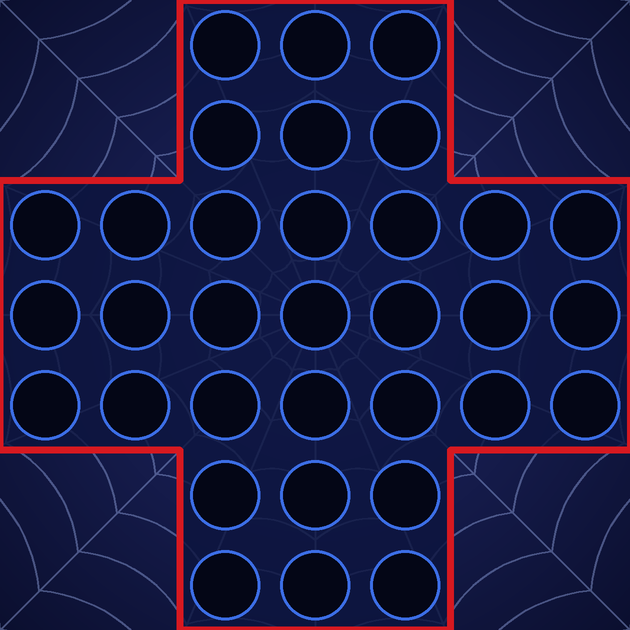
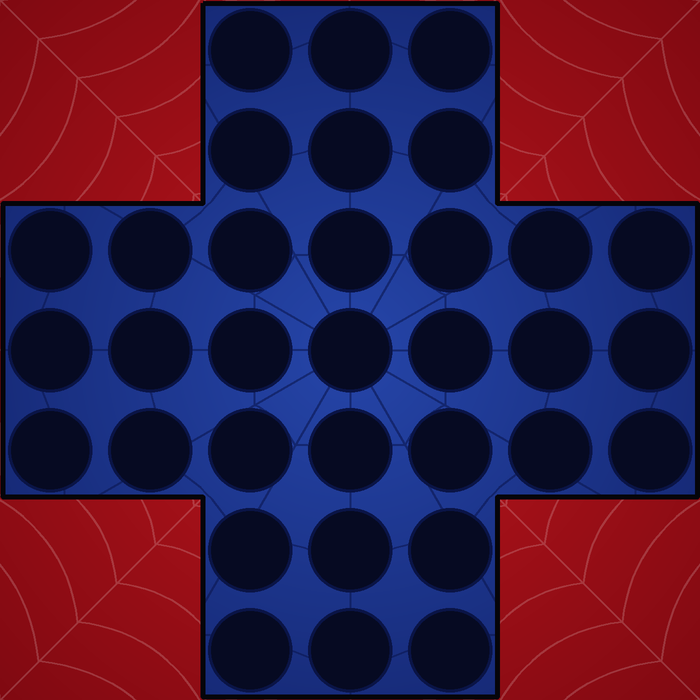
Corregimos css

diff --git a/css/spiderpeg.css b/css/spiderpeg.css
@@ -1,40 +1,61 @@
-.spiderpeg-contenedor {
-    width: 100%;
-    display: flex;
-    justify-content: center;
-    flex: 1;
-    align-items: flex-start;
-    gap: 40px;
-}
+/* ==========================================================================
+   SPIDER-PEG (Peg Solitaire) - Versión Escritorio
+   Paleta del sitio: fondo #0e0e0e, tarjetas #1a1a1a, verde #06D606,
+   rosa #D6006A, texto gris #a3a3a3.
+   ========================================================================== */
 
+/* Ruta de navegación (Inicio / Juegos / ...) */
 .spiderpeg-ruta {
     margin-bottom: 0;
 }
 
-.spiderpeg-juego {
-    max-width: 100%;
-    display: flex;
-    flex-direction: column;
-    align-items: center;
-    gap: 16px;
-}
-
-/* Tablero: ocupa el ancho disponible, hasta 700px, siempre cuadrado */
-#spiderpeg-canvas {
+/* --------------------------------------------------------------------------
+   CONTENEDOR GENERAL: juego a la izquierda y "¿Cómo jugar?" a la derecha.
+   -------------------------------------------------------------------------- */
+.spiderpeg-contenedor {
     width: 100%;
-    max-width: 700px;
-    height: auto;
-}
-
-/* Panel con los datos del juego */
-.spiderpeg-panel {
-    width: 100%;
-    max-width: 700px;
-    display: flex;
-    flex-direction: column;
-    align-items: center;
-    gap: 20px;
+    box-sizing: border-box;
     padding: 20px;
+    display: flex;
+    justify-content: center;
+    align-items: flex-start;
+    gap: 40px;
+}
+
+/* Sección de "¿Cómo jugar?" */
+.spiderpeg-contenedor .how-to-play {
+    width: auto;
+    flex: 1 1 320px;
+    max-width: 460px;
+    margin: 0;
+    box-sizing: border-box;
+}
+
+/* --------------------------------------------------------------------------
+   JUEGO: panel y tablero en fila (escritorio)
+   -------------------------------------------------------------------------- */
+.spiderpeg-juego {
+    display: flex;
+    flex-direction: row;
+    align-items: flex-start;
+    gap: 32px;
+}
+
+/* --------------------------------------------------------------------------
+   PANEL con los datos (tarjeta lateral)
+   -------------------------------------------------------------------------- */
+.spiderpeg-panel {
+    width: 200px;
+    flex: none;
+    box-sizing: border-box;
+    display: flex;
+    flex-direction: column;
+    align-items: center;
+    gap: 24px;
+    padding: 24px;
+    background-color: #1a1a1a;
+    border-radius: 15px;
+    box-shadow: 0 8px 20px rgba(0, 0, 0, 0.25);
 }
 
 /* Cada dato (tiempo / fichas): título chico arriba y número grande abajo */
@@ -44,7 +65,6 @@
     align-items: center;
 }
 
-/* Título del dato */
 .dato-titulo {
     font-size: 13px;
     text-transform: uppercase;
@@ -52,13 +72,13 @@
     color: #a3a3a3;
 }
 
-/* Número del dato */
 .dato-numero {
     font-size: 40px;
     color: #06D606;
+    font-variant-numeric: tabular-nums; /* los números no "bailan" al cambiar */
 }
 
-/* Botón Reiniciar: se suma al estilo .primary de buttons.css */
+/* Botón Reiniciar */
 .reiniciar-btn {
     width: 100%;
     padding: 0 20px;
@@ -69,70 +89,42 @@
     min-height: 44px;
     margin: 0;
     font-size: 16px;
+    font-weight: 600;
     text-align: center;
     color: #06D606;
 }
 
-/* ---------- Pantallas grandes: el panel pasa al costado ---------- */
-@media (min-width: 768px) {
-
-    /* Tablero y panel uno al lado del otro, alineados arriba */
-    .spiderpeg-juego {
-        flex-direction: row;
-        align-items: flex-start;
-        gap: 40px;
-        align-items: center;
-    }
-
-    /* El tablero se mide según el alto de la pantalla, así entra completo en Full HD sin scroll*/
-    #spiderpeg-canvas {
-        width: 80vh;
-        max-width: 700px;
-        min-width: 0;
-    }
-
-    /* El panel tiene un ancho fijo y se queda al costado */
-    .spiderpeg-panel {
-        width: 200px;
-        flex: none;
-    }
-}
-
-/* Agregar a css/spiderpeg.css: centra el botón "Comenzar" sobre el canvas */
+/* --------------------------------------------------------------------------
+   TABLERO: cuadrado, adaptado para Full HD sin scroll
+   -------------------------------------------------------------------------- */
 .spiderpeg-tablero {
-    
     position: relative;
-    display: inline-block;
-    line-height: 0; /* evita el espacio de línea debajo del canvas */
+    width: 700px;
+    max-width: 80vh;
+    line-height: 0;       /* evita el espacio de línea debajo del canvas */
+    overflow: hidden;     /* recorta los bordes difusos del blur */
+    border-radius: 12px;
+    background-color: #000;
+    box-shadow: 0 0 0 4px #1a1a1a, 0 12px 30px rgba(0, 0, 0, 0.6);
 }
 
-.spiderpeg-tablero #spiderpeg-comenzar {
-    position: absolute;
-    top: 50%;
-    left: 50%;
-    transform: translate(-50%, -50%);
-    line-height: normal;
-}
-/* Agregar a css/spiderpeg.css: botón "Comenzar" sobre el canvas, con blur y pulso */
-.spiderpeg-tablero {
-    
-    position: relative;
-    display: inline-block;
-    line-height: 0; /* evita el espacio de línea debajo del canvas */
+#spiderpeg-canvas {
+    display: block;
+    width: 100%;
+    height: auto;
+    transition: filter 0.4s ease, transform 0.4s ease;
 }
 
-/* Blur del tablero mientras no empezó la partida
-   (el JS agrega/saca la clase .spiderpeg-inicio) */
-.spiderpeg-tablero canvas {
-    transition: filter 0.4s ease;
-}
-
-.spiderpeg-tablero canvas.spiderpeg-inicio {
+/* Antes de empezar: tablero desenfocado y más oscuro */
+#spiderpeg-canvas.spiderpeg-inicio {
     filter: blur(4px) brightness(0.75);
+    transform: scale(1.04);
 }
 
-/* Botón centrado sobre el canvas, con pulso */
-.spiderpeg-tablero #spiderpeg-comenzar {
+/* --------------------------------------------------------------------------
+   BOTÓN "COMENZAR": centrado sobre el tablero, con pulso
+   -------------------------------------------------------------------------- */
+#spiderpeg-comenzar {
     position: absolute;
     top: 50%;
     left: 50%;
@@ -141,19 +133,24 @@
     animation: spiderpeg-pulso 1.6s ease-in-out infinite;
 }
 
-.spiderpeg-tablero #spiderpeg-comenzar:hover {
+#spiderpeg-comenzar:hover {
     animation-play-state: paused;
 }
 
-/* El translate va dentro de la animación porque el botón se centra con transform */
 @keyframes spiderpeg-pulso {
-    0%, 100% {
-        transform: translate(-50%, -50%) scale(1);
-       
-    }
     50% {
         transform: translate(-50%, -50%) scale(1.08);
         box-shadow: 0 0 0 16px rgba(214, 0, 106, 0);
     }
 }
 
+/* Respeta a quienes tienen desactivadas las animaciones en su sistema */
+@media (prefers-reduced-motion: reduce) {
+    #spiderpeg-comenzar {
+        animation: none;
+    }
+
+    #spiderpeg-canvas {
+        transition: none;
+    }
+}

diff --git a/css/game/game.css b/css/game/game.css
@@ -484,61 +484,3 @@ img.img-game {
     border-radius: 12px;
 }
 
-/* Agregar a css/spiderpeg.css: centra el botón "Comenzar" sobre el canvas */
-.spiderpeg-tablero {
-    
-    position: relative;
-    display: inline-block;
-    line-height: 0; /* evita el espacio de línea debajo del canvas */
-}
-
-.spiderpeg-tablero #spiderpeg-comenzar {
-    position: absolute;
-    top: 50%;
-    left: 50%;
-    transform: translate(-50%, -50%);
-    line-height: normal;
-}
-/* Agregar a css/spiderpeg.css: botón "Comenzar" sobre el canvas, con blur y pulso */
-.spiderpeg-tablero {
-    
-    position: relative;
-    display: inline-block;
-    line-height: 0; /* evita el espacio de línea debajo del canvas */
-}
-
-/* Blur del tablero mientras no empezó la partida
-   (el JS agrega/saca la clase .spiderpeg-inicio) */
-.spiderpeg-tablero canvas {
-    transition: filter 0.4s ease;
-}
-
-.spiderpeg-tablero canvas.spiderpeg-inicio {
-    filter: blur(4px) brightness(0.75);
-}
-
-/* Botón centrado sobre el canvas, con pulso */
-.spiderpeg-tablero #spiderpeg-comenzar {
-    position: absolute;
-    top: 50%;
-    left: 50%;
-    transform: translate(-50%, -50%);
-    line-height: normal;
-    animation: spiderpeg-pulso 1.6s ease-in-out infinite;
-}
-
-.spiderpeg-tablero #spiderpeg-comenzar:hover {
-    animation-play-state: paused;
-}
-
-/* El translate va dentro de la animación porque el botón se centra con transform */
-@keyframes spiderpeg-pulso {
-    0%, 100% {
-        transform: translate(-50%, -50%) scale(1);
-       
-    }
-    50% {
-        transform: translate(-50%, -50%) scale(1.08);
-        box-shadow: 0 0 0 16px rgba(214, 0, 106, 0);
-    }
-}
